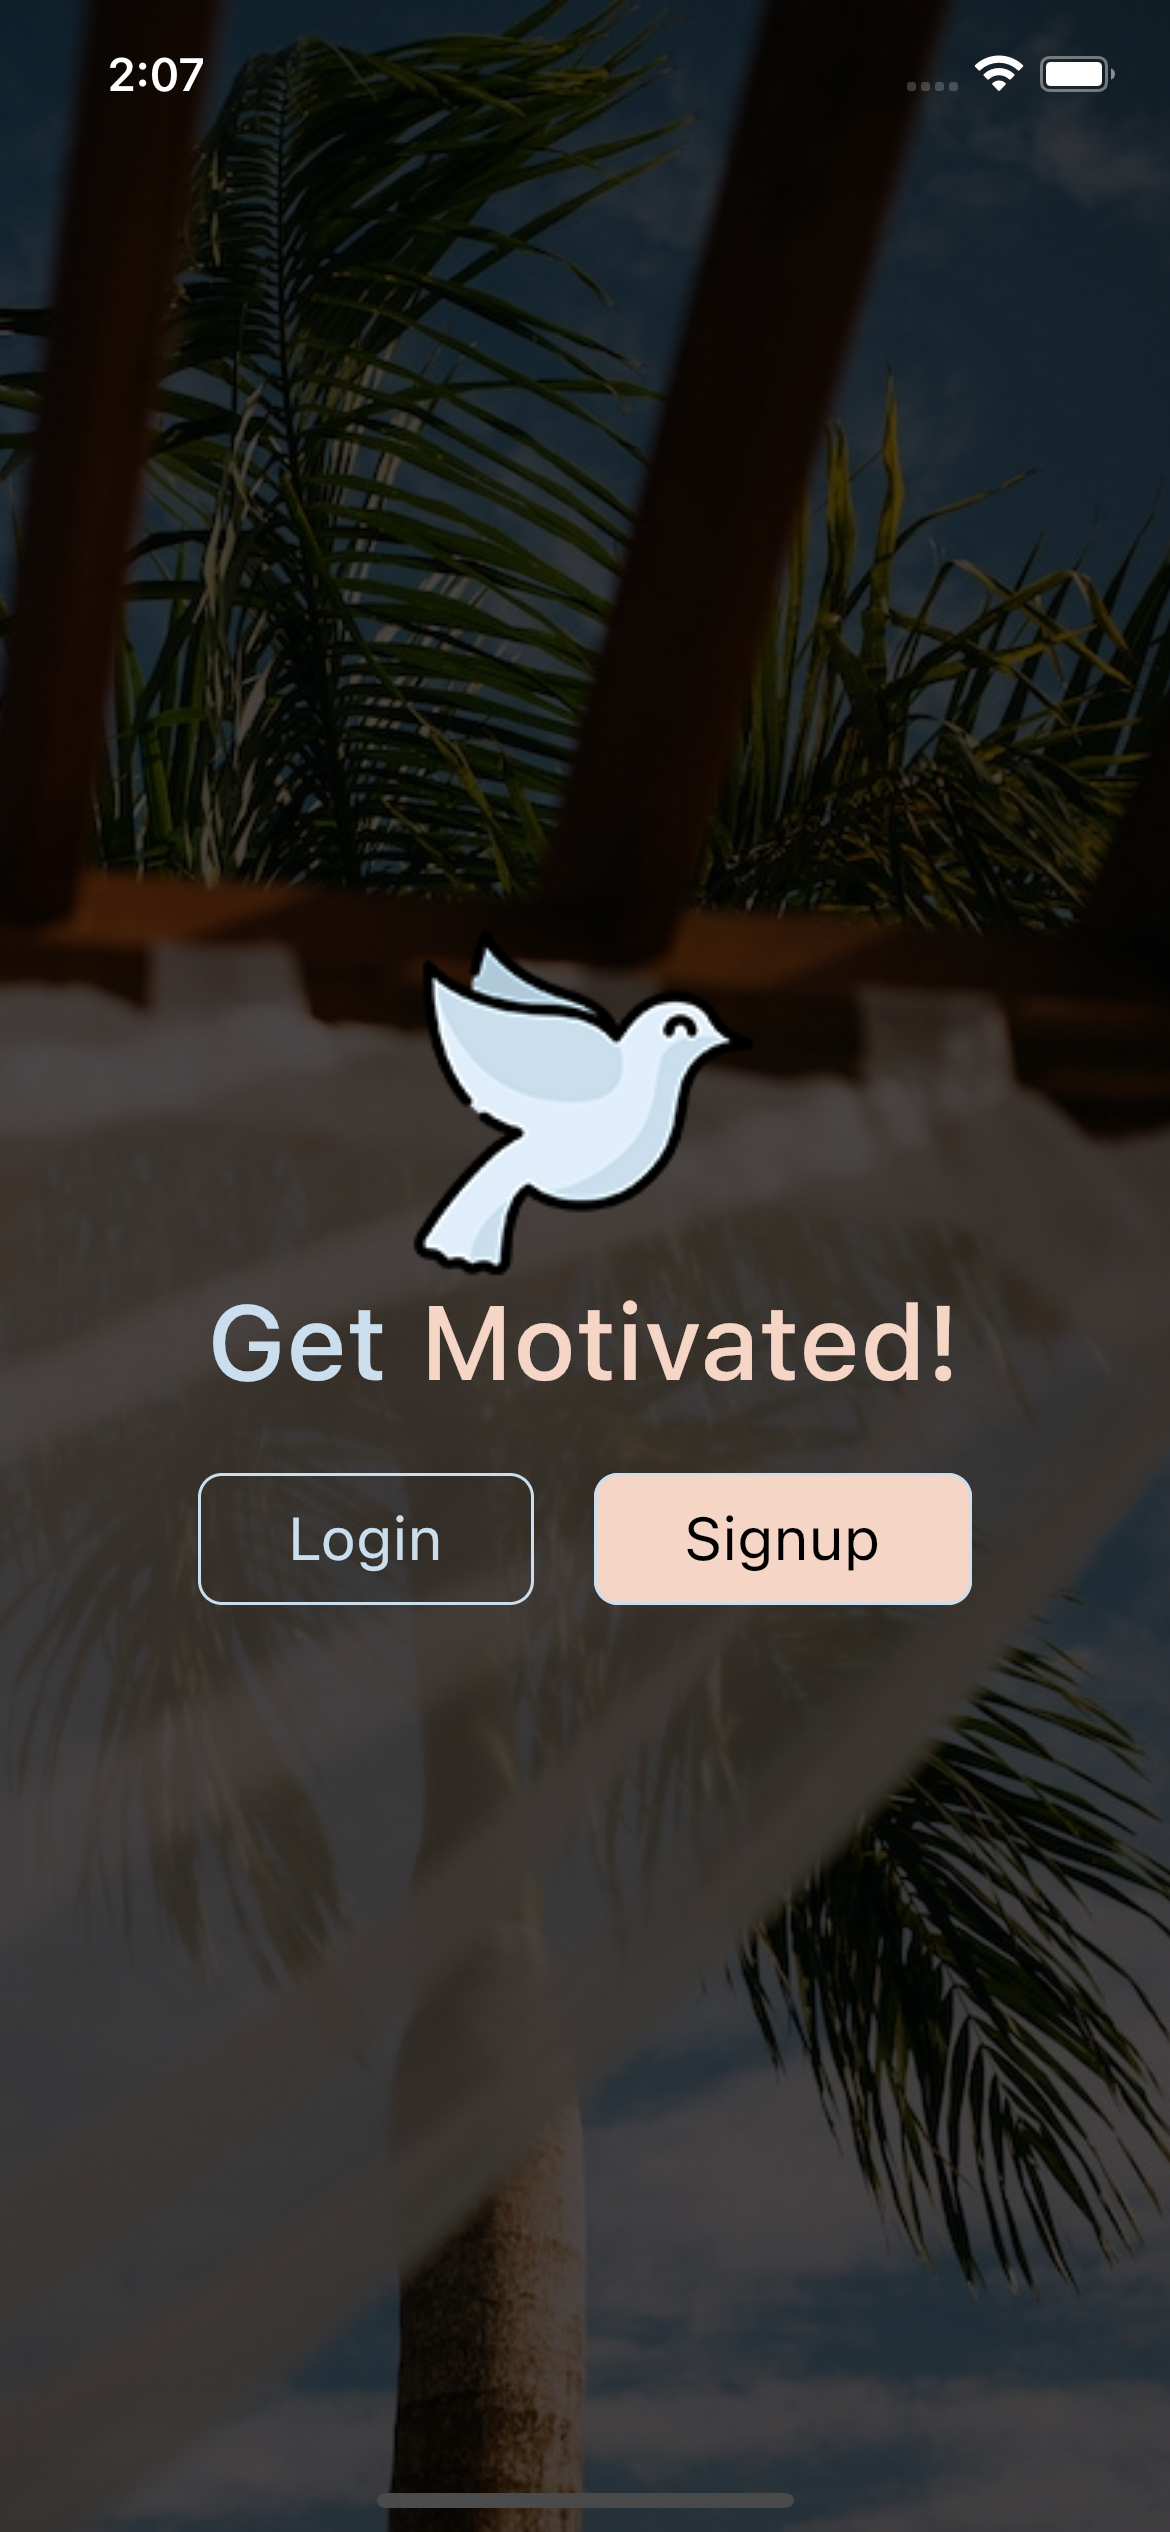
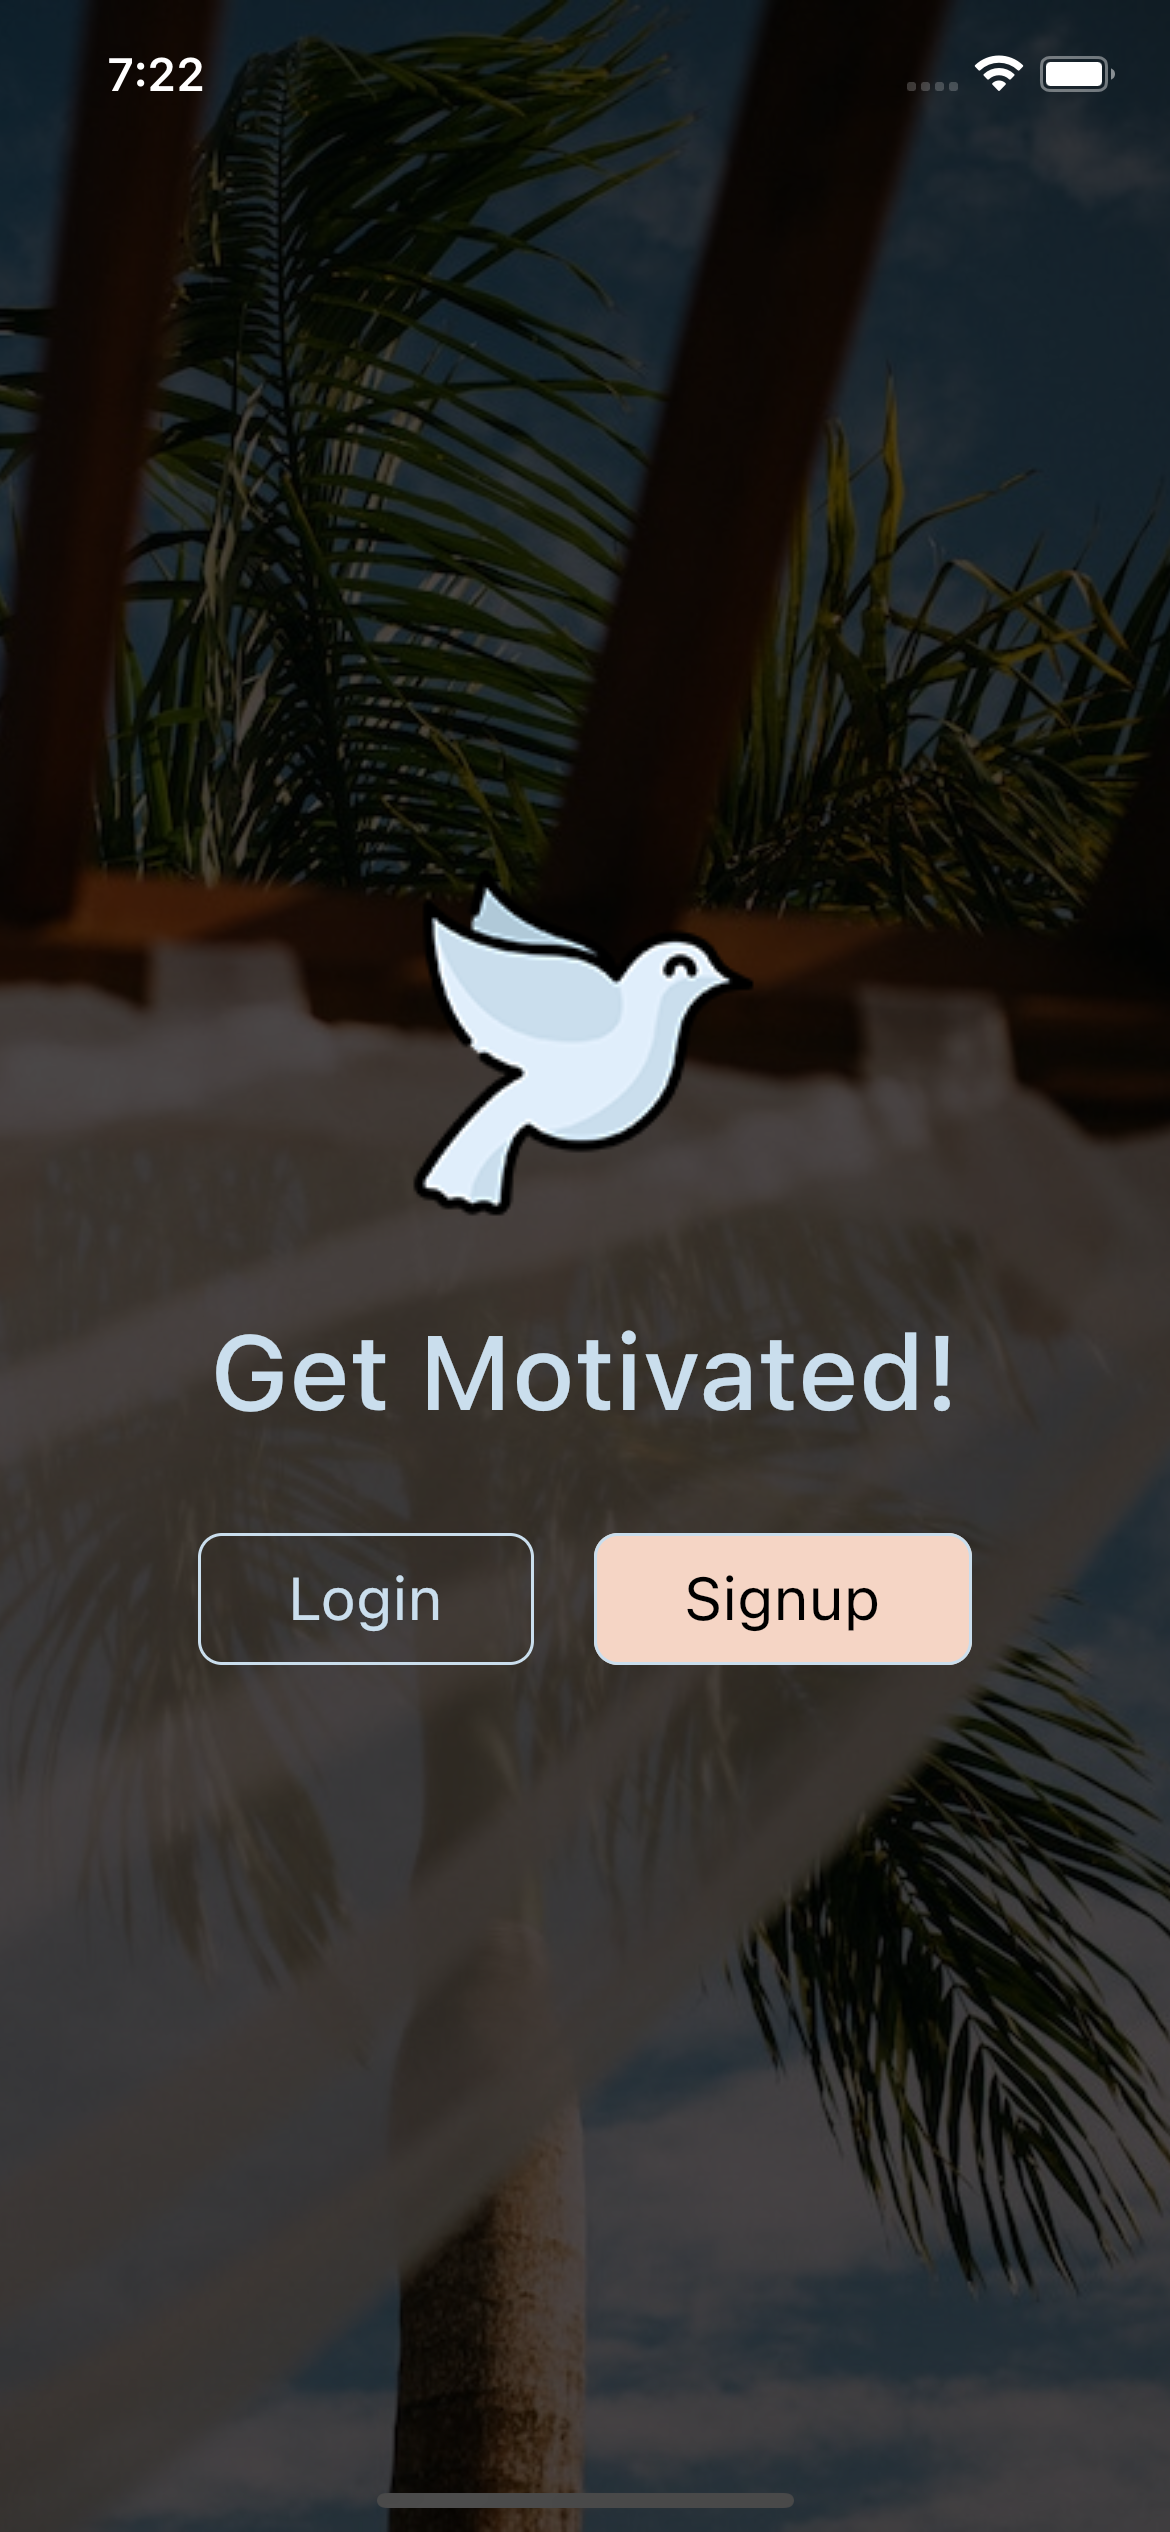
code refactor(drawer listTile & button)

diff --git a/lib/Views/welcome.dart b/lib/Views/welcome.dart
@@ -1,7 +1,9 @@
 import 'package:flutter/material.dart';
 import 'package:quotes/Authenticate_Views/login.dart';
 import 'package:quotes/Authenticate_Views/register.dart';
+import 'package:quotes/Widgets/click_button.dart';
 import 'package:quotes/constants.dart';
+import 'package:animated_text_kit/animated_text_kit.dart';
 
 class Welcome extends StatefulWidget {
   const Welcome({Key? key}) : super(key: key);
@@ -20,15 +22,13 @@ class _WelcomeState extends State<Welcome> {
         elevation: 0,
       ),
       backgroundColor: Color(0xffcadeed),
-
       body: Container(
         decoration: BoxDecoration(
           image: DecorationImage(
-            image: AssetImage('assets/images/bg.jpeg'),
-            fit: BoxFit.cover,
-            colorFilter: ColorFilter.mode(
-                Colors.black.withOpacity(0.7), BlendMode.darken)
-          ),
+              image: AssetImage('assets/images/bg.jpeg'),
+              fit: BoxFit.cover,
+              colorFilter: ColorFilter.mode(
+                  Colors.black.withOpacity(0.7), BlendMode.darken)),
         ),
         child: Column(
           mainAxisAlignment: MainAxisAlignment.center,
@@ -43,90 +43,57 @@ class _WelcomeState extends State<Welcome> {
                 ),
               ],
             ),
+            kwelcomeSizedBox_h30,
             Row(
               mainAxisAlignment: MainAxisAlignment.center,
               children: [
-                Text(
-                  'Get',
-                  style: TextStyle(
-                    fontSize: 35,
-                    fontWeight: FontWeight.w500,
-                    color: Color(0xffcadeed),
-                  ),
-                ),
-                SizedBox(
-                  width: 10,
-                ),
-                Text(
-                  'Motivated!',
-                  style: TextStyle(
-                    fontSize: 35,
-                    fontWeight: FontWeight.w500,
-                    color: Color(0xfff5d5c5),
-                  ),
+                AnimatedTextKit(
+                  animatedTexts: [
+                    TyperAnimatedText(
+                      'Get Motivated!',
+                      textStyle: TextStyle(
+                        fontSize: 35,
+                        fontWeight: FontWeight.w500,
+                        color: Color(0xffcadeed),
+                      ),
+                      speed: Duration(milliseconds:150),
+                    ),
+                  ],
+                  totalRepeatCount: 20,
                 ),
               ],
             ),
-            SizedBox(
-              height: 20,
-            ),
+            kwelcomeSizedBox_h30,
             Row(
               mainAxisAlignment: MainAxisAlignment.center,
               children: [
                 Column(
                   mainAxisAlignment: MainAxisAlignment.start,
                   children: [
-                    ClickButton(press: (){Navigator.push(context,
-                        MaterialPageRoute(builder: (context) => Login()));}, text: 'Login',),
+                    ClickButton(
+                      press: () {
+                        Navigator.push(context,
+                            MaterialPageRoute(builder: (context) => Login()));
+                      },
+                      text: 'Login',
+                    ),
                   ],
                 ),
                 SizedBox(
                   width: 20,
                 ),
-                ClickButton(press: (){Navigator.push(context,
-                        MaterialPageRoute(builder: (context) => Signup()));}, text: 'Signup',),
+                ClickButton(
+                  press: () {
+                    Navigator.push(context,
+                        MaterialPageRoute(builder: (context) => Signup()));
+                  },
+                  text: 'Signup',
+                ),
               ],
             ),
           ],
         ),
       ),
-      
     );
   }
 }
-
-class ClickButton extends StatelessWidget {
-  const ClickButton({
-    required this.text,required this.press,
-  }) ;
-  final String text;
-  final  press;
-
-  @override
-  Widget build(BuildContext context) {
-    return OutlinedButton(
-      onPressed: press,
-      style: OutlinedButton.styleFrom(
-        side: BorderSide(
-          color: Color(0xffcadeed),
-        ),
-        backgroundColor: text=='Login'?Color.fromARGB(0, 202, 222, 237):Color(0xfff5d5c5),
-        padding:
-            EdgeInsets.symmetric(vertical: 10, horizontal: 30),
-        shape: RoundedRectangleBorder(
-          borderRadius: BorderRadius.circular(8),
-        ),
-      ),
-      child: Text(
-        text,
-        style: TextStyle(
-          fontSize: 20,
-          fontWeight: FontWeight.w400,
-          color: text=='Login'?Color(0xffcadeed):Color(0xff000000),
-        ),
-      ),
-    );
-  }
-}
-
-

diff --git a/lib/Views/home.dart b/lib/Views/home.dart
@@ -7,6 +7,7 @@ import 'package:quotes/Authenticate_Views/register.dart';
 import 'package:quotes/Provider/google_signin.dart';
 import 'package:quotes/Views/category_grid.dart';
 import 'package:quotes/Views/welcome.dart';
+import 'package:quotes/Widgets/drawer_list_tile.dart';
 import 'package:quotes/constants.dart';
 import 'package:quotes/Models/user.dart';
 
@@ -65,12 +66,8 @@ class _HomeState extends State<Home> {
                 ],
               ),
             ),
-            ListTile(
-              title: Text(
-                'Settings',
-                style: kdrawerTextStyle,
-              ),
-              onTap: () {
+            DrawerListTile(
+              press: () {
                 Navigator.push(
                   context,
                   MaterialPageRoute(
@@ -78,13 +75,10 @@ class _HomeState extends State<Home> {
                   ),
                 );
               },
+              text: 'Login',
             ),
-            ListTile(
-              title: Text(
-                'Saved',
-                style: kdrawerTextStyle,
-              ),
-              onTap: () {
+            DrawerListTile(
+              press: () {
                 Navigator.push(
                   context,
                   MaterialPageRoute(
@@ -92,23 +86,15 @@ class _HomeState extends State<Home> {
                   ),
                 );
               },
+              text: 'Saved Quotes',
             ),
-            ListTile(
-              title: Text(
-                'Bookmarks',
-                style: kdrawerTextStyle,
-              ),
-              onTap: () {},
-            ),
-            ListTile(
-              title: Text(
-                'Sign out',
-                style: kdrawerTextStyle,
-              ),
-              onTap: () {
+            DrawerListTile(text: 'Bookmarks', press: () {}),
+            DrawerListTile(
+              text: 'Sign Out',
+              press: () {
                 GoogleSignInProvider().signOut(context);
               },
-            ),
+            )
           ],
         ),
       ),

diff --git a/lib/Widgets/click_button.dart b/lib/Widgets/click_button.dart
@@ -1,0 +1,35 @@
+import 'package:flutter/material.dart';
+
+class ClickButton extends StatelessWidget {
+  const ClickButton({
+    required this.text,required this.press,
+  }) ;
+  final String text;
+  final  press;
+
+  @override
+  Widget build(BuildContext context) {
+    return OutlinedButton(
+      onPressed: press,
+      style: OutlinedButton.styleFrom(
+        side: BorderSide(
+          color: Color(0xffcadeed),
+        ),
+        backgroundColor: text=='Login'?Color.fromARGB(0, 202, 222, 237):Color(0xfff5d5c5),
+        padding:
+            EdgeInsets.symmetric(vertical: 10, horizontal: 30),
+        shape: RoundedRectangleBorder(
+          borderRadius: BorderRadius.circular(8),
+        ),
+      ),
+      child: Text(
+        text,
+        style: TextStyle(
+          fontSize: 20,
+          fontWeight: FontWeight.w400,
+          color: text=='Login'?Color(0xffcadeed):Color(0xff000000),
+        ),
+      ),
+    );
+  }
+}

diff --git a/lib/Widgets/drawer_list_tile.dart b/lib/Widgets/drawer_list_tile.dart
@@ -1,0 +1,22 @@
+import 'package:flutter/material.dart';
+import 'package:quotes/constants.dart';
+
+
+
+class DrawerListTile extends StatelessWidget {
+  const DrawerListTile({
+    required this.text,
+    required this.press,
+  });
+  final String text;
+  final press;
+  @override
+  Widget build(BuildContext context) {
+    return ListTile(
+        onTap: press,
+        title: Text(
+          text,
+          style: kdrawerTextStyle,
+        ));
+  }
+}

diff --git a/lib/constants.dart b/lib/constants.dart
@@ -34,4 +34,9 @@ const kauthSizedBox_w5 = SizedBox(
 const kwelcomeSizedBox_w20 = SizedBox(
   width: 20,
 );
+const kwelcomeSizedBox_h30 = SizedBox(
+  height: 30,
+);
+
+// colors
 const kIconTheme = IconThemeData(color: Color(0xffcadeed));
